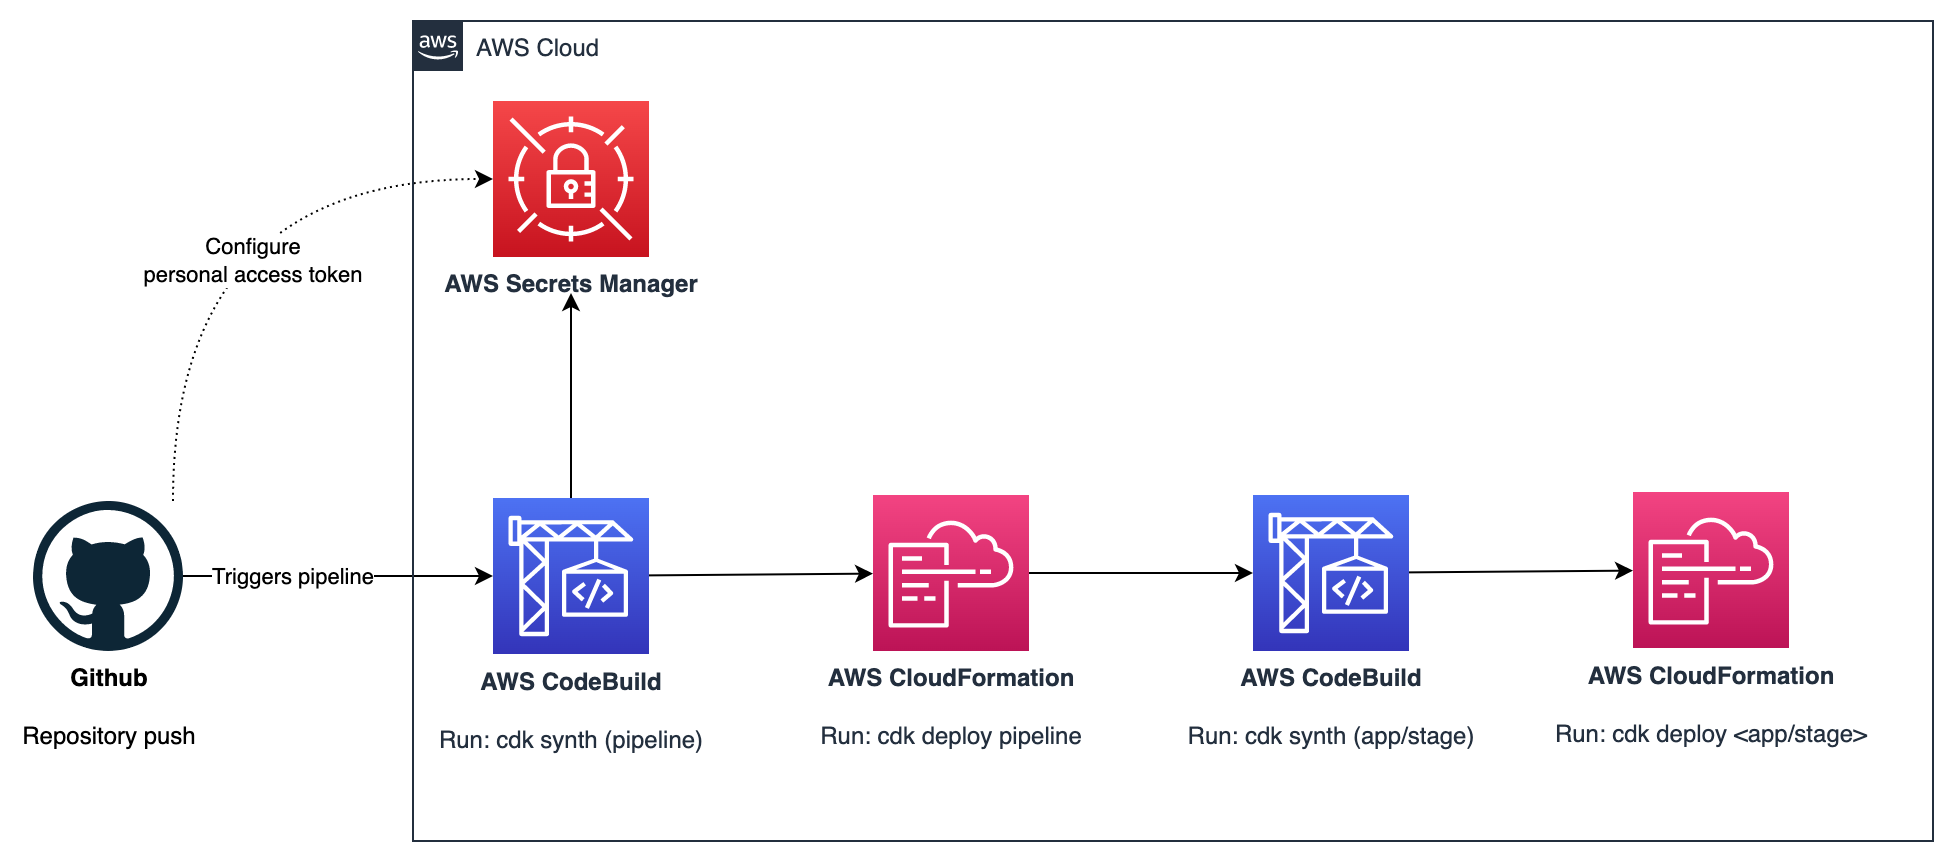
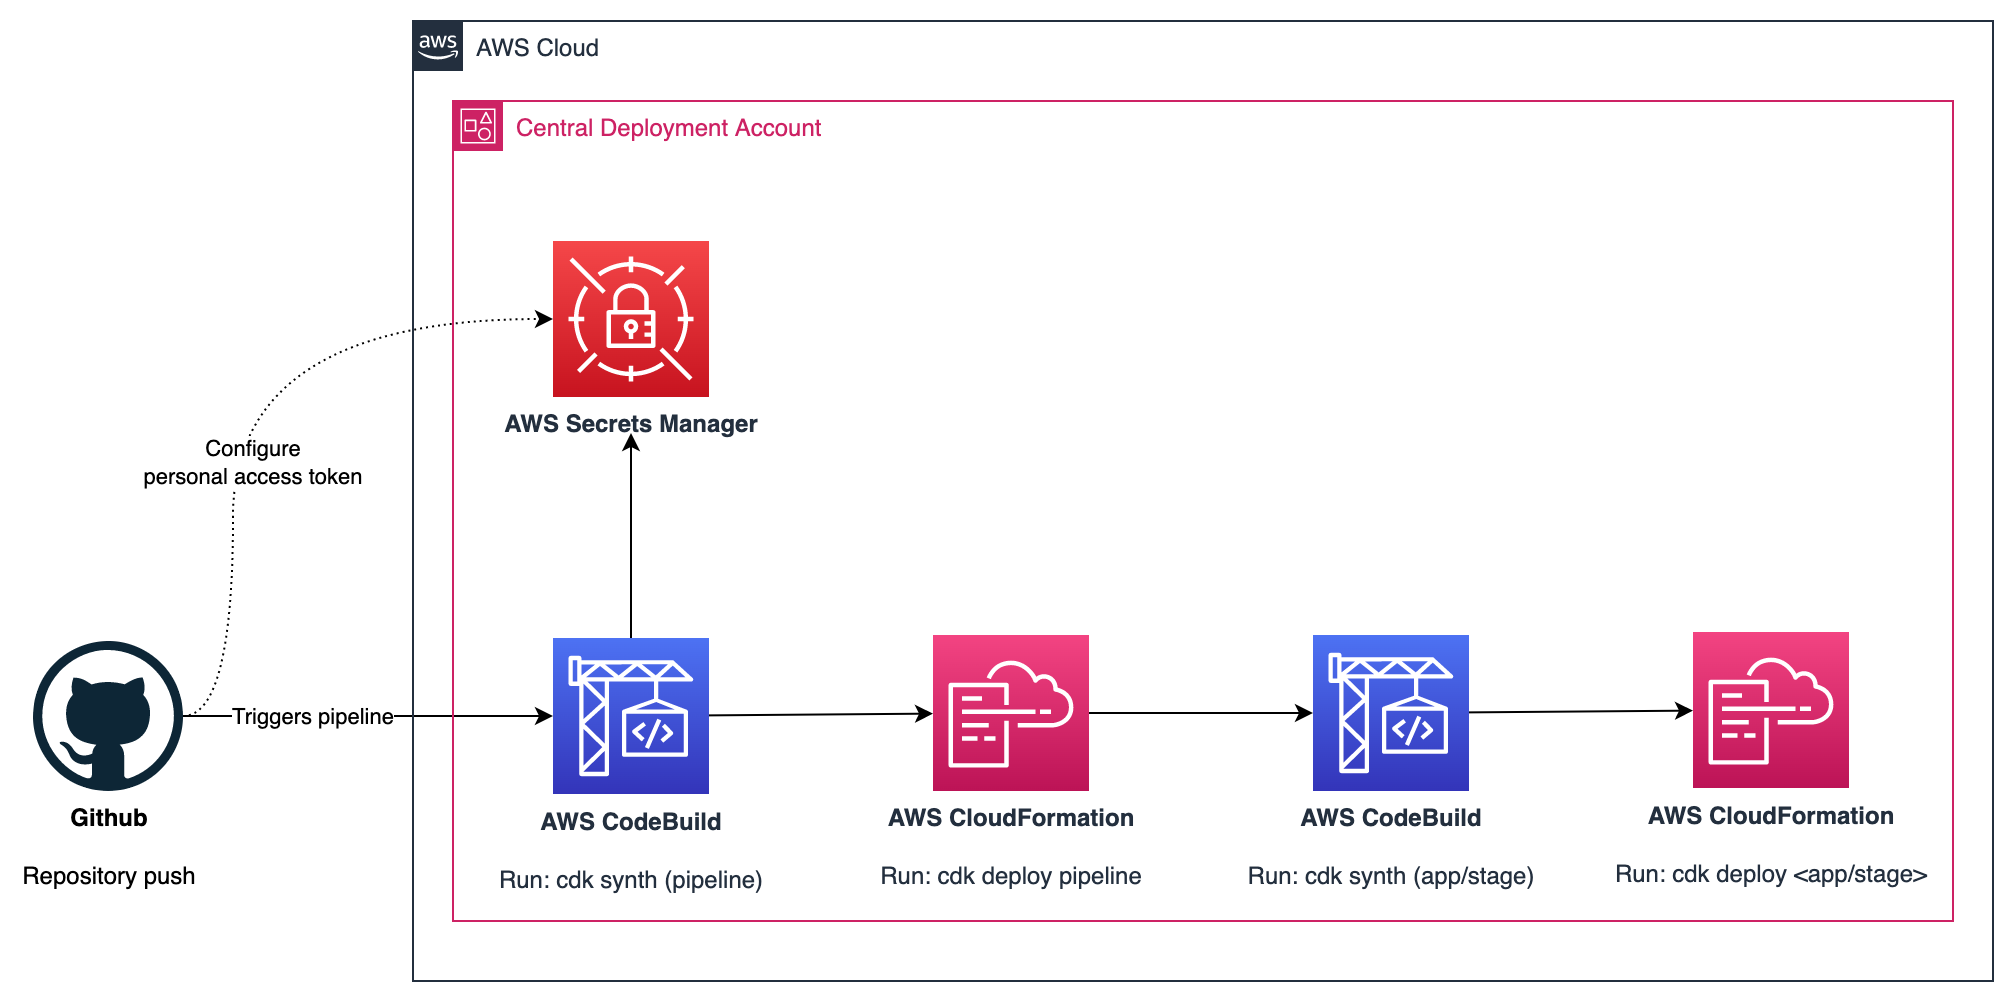
Add multi-account deplyoment note

diff --git a/README.md b/README.md
@@ -1,6 +1,7 @@
 # CDK Pipelines Starter Kit
 
-Built with the [Starter kit for CDK pipelines](https://github.com/moralesl/cdk-pipeline-starter-kit).
+Starter kit for [AWS Cloud Development Kit (AWS CDK)](https://aws.amazon.com/cdk/) pipelines. It generates a single-account CDK Pipeline project.
+For details how to extend it to multi-account setups, please take a look at the [resources](#resources).
 
 ## Architecture overview
 ![CDK Pipeline architecture overview](img/Architecture-Overview.png)
@@ -27,4 +28,5 @@ Afterwards take a look into the generated [README.md](README.md.jinja) for furth
 
 
 ## Resources
+* [Continuous integration and delivery (CI/CD) using CDK Pipelines](https://docs.aws.amazon.com/cdk/v2/guide/cdk_pipeline.html)
 * [CDK Pipelines: Continuous delivery for AWS CDK applications](https://aws.amazon.com/blogs/developer/cdk-pipelines-continuous-delivery-for-aws-cdk-applications/)
